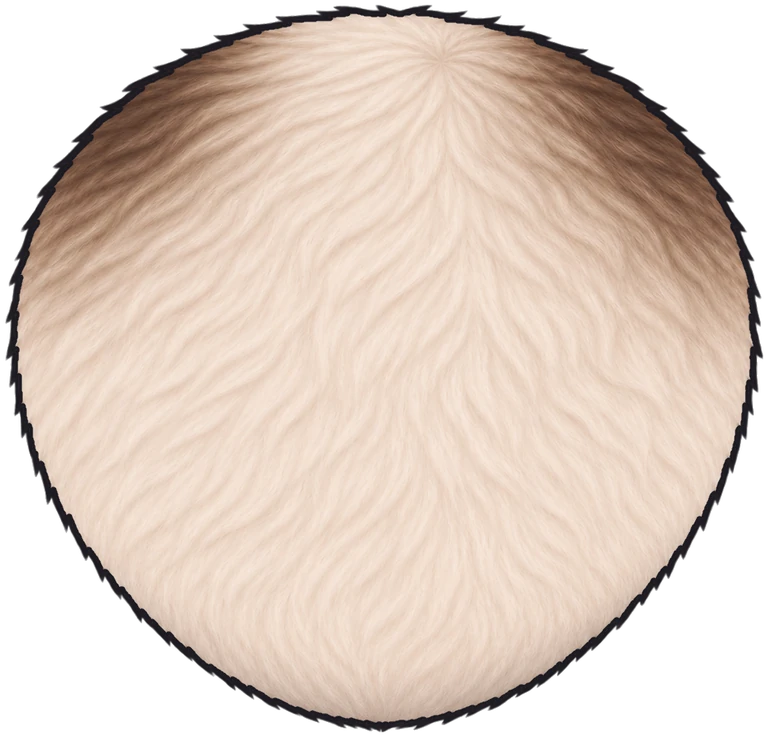
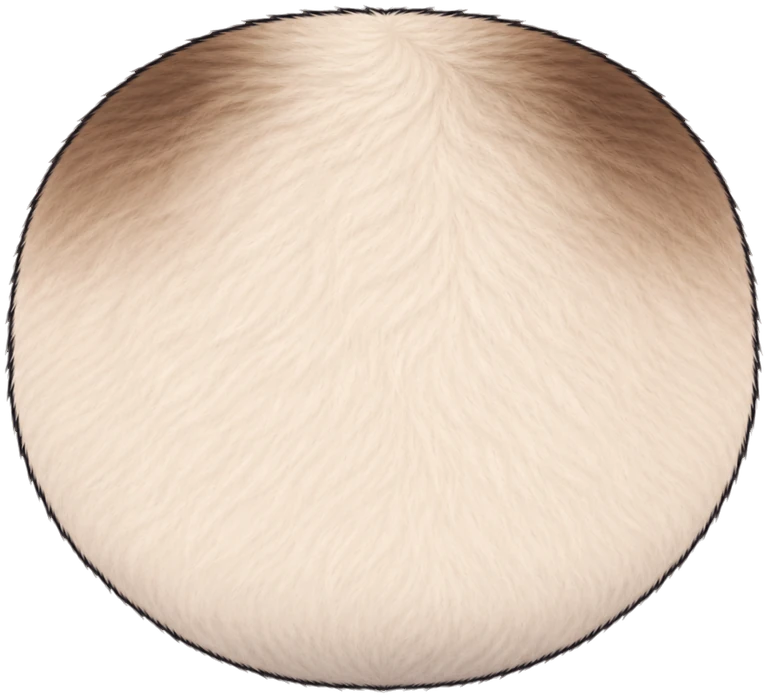
三花、暹罗、英短蓝按真猫照片重画，深色毛上眼皮下沿改用浅色线
- 暹罗：苹果头圆脸，大块深色面罩，眼皮取面罩色。
- 三花：左黑右橘分块，眼皮按所在色块取色。
- 英短蓝：宽圆脸、小圆耳，毛色调成和身体一致的银蓝灰，脸上有毛流（外圈毛边还在改）。
- 眼皮下沿和闭眼弧线同色，黑猫等深色毛犯困、眨眼时看得出在闭眼；头像重新嵌入新样式。

diff --git a/prototype/coats.js b/prototype/coats.js
@@ -116,9 +116,9 @@
     },
     {
       id: 'siamese', name: '暹罗猫', art: art('siamese', {
-        head: { cx: 399.9, cy: 173.4, width: 241.8 }, backHead: { cx: 400, cy: 173.6, width: 243 }, ear: { x: 272, y: 22, width: 110, rotate: 12 },
+        head: { cx: 400.1, cy: 168.9, width: 241.3 }, backHead: { cx: 400.3, cy: 169, width: 240.5 }, ear: { x: 272, y: 22, width: 110, rotate: 12 },
         arm: { width: 46, maskBody: true }, paw: { width: 58 }, tail: { scale: 0.8 },
-        headPath: 'M 282 166 C 280 104, 332 60, 400 60 C 468 60, 520 104, 518 166 C 517 210, 488 248, 454 270 C 436 281, 418 287, 400 287 C 382 287, 364 281, 346 270 C 312 248, 283 210, 282 166 Z',
+        headPath: 'M 518.0 172.0 L 517.8 179.2 L 517.3 185.0 L 516.5 190.4 L 515.4 195.4 L 514.1 200.3 L 512.6 204.9 L 510.8 209.4 L 508.8 213.7 L 506.7 217.9 L 504.3 222.0 L 501.8 225.9 L 499.2 229.7 L 496.3 233.3 L 493.3 236.8 L 490.2 240.2 L 487.0 243.4 L 483.6 246.5 L 480.2 249.4 L 476.6 252.2 L 472.9 254.9 L 469.2 257.4 L 465.4 259.8 L 461.5 262.0 L 457.5 264.0 L 453.4 265.9 L 449.3 267.6 L 445.1 269.2 L 440.8 270.6 L 436.4 271.9 L 432.0 273.0 L 427.4 273.9 L 422.6 274.7 L 417.7 275.2 L 412.5 275.7 L 407.0 275.9 L 400.0 276.0 L 393.0 275.9 L 387.5 275.7 L 382.3 275.2 L 377.4 274.7 L 372.6 273.9 L 368.0 273.0 L 363.6 271.9 L 359.2 270.6 L 354.9 269.2 L 350.7 267.6 L 346.6 265.9 L 342.5 264.0 L 338.5 262.0 L 334.6 259.8 L 330.8 257.4 L 327.1 254.9 L 323.4 252.2 L 319.8 249.4 L 316.4 246.5 L 313.0 243.4 L 309.8 240.2 L 306.7 236.8 L 303.7 233.3 L 300.8 229.7 L 298.2 225.9 L 295.7 222.0 L 293.3 217.9 L 291.2 213.7 L 289.2 209.4 L 287.4 204.9 L 285.9 200.3 L 284.6 195.4 L 283.5 190.4 L 282.7 185.0 L 282.2 179.2 L 282.0 172.0 L 282.1 164.3 L 282.4 158.2 L 282.9 152.6 L 283.5 147.2 L 284.4 142.1 L 285.4 137.2 L 286.7 132.4 L 288.1 127.9 L 289.7 123.4 L 291.5 119.1 L 293.4 115.0 L 295.6 111.0 L 297.9 107.2 L 300.4 103.5 L 303.1 99.9 L 305.9 96.5 L 309.0 93.2 L 312.1 90.1 L 315.5 87.1 L 319.0 84.3 L 322.7 81.7 L 326.5 79.2 L 330.5 76.8 L 334.6 74.7 L 338.9 72.7 L 343.3 70.8 L 347.9 69.2 L 352.6 67.7 L 357.6 66.3 L 362.6 65.2 L 367.9 64.2 L 373.4 63.4 L 379.1 62.8 L 385.2 62.4 L 391.8 62.1 L 400.0 62.0 L 408.2 62.1 L 414.8 62.4 L 420.9 62.8 L 426.6 63.4 L 432.1 64.2 L 437.4 65.2 L 442.4 66.3 L 447.4 67.7 L 452.1 69.2 L 456.7 70.8 L 461.1 72.7 L 465.4 74.7 L 469.5 76.8 L 473.5 79.2 L 477.3 81.7 L 481.0 84.3 L 484.5 87.1 L 487.9 90.1 L 491.0 93.2 L 494.1 96.5 L 496.9 99.9 L 499.6 103.5 L 502.1 107.2 L 504.4 111.0 L 506.6 115.0 L 508.5 119.1 L 510.3 123.4 L 511.9 127.9 L 513.3 132.4 L 514.6 137.2 L 515.6 142.1 L 516.5 147.2 L 517.1 152.6 L 517.6 158.2 L 517.9 164.3 Z',
         imprint: { dx: 36, dy: -14 },
       }),
       defs: `<radialGradient id="coat-siamese-mask">
@@ -127,12 +127,19 @@
         <stop offset="100%" class="coat-stop-base" stop-opacity="0"/>
       </radialGradient>`,
       head: '<ellipse fill="url(#coat-siamese-mask)" cx="400" cy="200" rx="96" ry="84"/>',
-      shape: { bodySX: 0.86, headSX: 1, ear: 1.08 }, // 身材细长、脸窄一点、耳朵大
+      shape: { bodySX: 0.86, headSX: 1, ear: 1 }, // 身材细长、脸窄一点、耳朵大
     },
     { id: 'black', name: '黑猫', art: art('black') },
-    { id: 'calico', name: '三花猫', art: art('calico') },
-    { id: 'blue', name: '英短蓝猫', art: art('blue', { tail: { scale: 1.15 } }),
-      shape: { bodySX: 1.15, bodySY: 0.96, headSX: 1.1, ear: 0.85 } },
+    { id: 'calico', name: '三花猫', art: art('calico', {
+      head: { cx: 400, cy: 173.1, width: 266 }, backHead: { cx: 400.1, cy: 173.3, width: 264.3 },
+    }) },
+    { id: 'blue', name: '英短蓝猫', art: art('blue', {
+      head: { cx: 400.1, cy: 181.3, width: 275.3 }, backHead: { cx: 399.8, cy: 180.9, width: 274.5 },
+      ear: { x: 276.3, y: 62.3, width: 75.5 }, // 小圆耳，分得开、长得低
+      arm: { width: 62, maskBody: true }, paw: { width: 72 }, tail: { scale: 1.25 },
+      headPath: 'M 534.0 182.0 L 534.0 189.2 L 533.9 195.0 L 533.5 200.4 L 533.0 205.4 L 532.2 210.3 L 531.3 214.9 L 530.1 219.4 L 528.7 223.7 L 527.0 227.9 L 525.2 232.0 L 523.1 235.9 L 520.9 239.7 L 518.4 243.3 L 515.7 246.8 L 512.8 250.2 L 509.6 253.4 L 506.3 256.5 L 502.7 259.4 L 499.0 262.2 L 495.0 264.9 L 490.8 267.4 L 486.4 269.8 L 481.9 272.0 L 477.1 274.0 L 472.1 275.9 L 466.9 277.6 L 461.6 279.2 L 456.0 280.6 L 450.2 281.9 L 444.2 283.0 L 438.0 283.9 L 431.5 284.7 L 424.7 285.2 L 417.5 285.7 L 409.7 285.9 L 400.0 286.0 L 390.3 285.9 L 382.5 285.7 L 375.3 285.2 L 368.5 284.7 L 362.0 283.9 L 355.8 283.0 L 349.8 281.9 L 344.0 280.6 L 338.4 279.2 L 333.1 277.6 L 327.9 275.9 L 322.9 274.0 L 318.1 272.0 L 313.6 269.8 L 309.2 267.4 L 305.0 264.9 L 301.0 262.2 L 297.3 259.4 L 293.7 256.5 L 290.4 253.4 L 287.2 250.2 L 284.3 246.8 L 281.6 243.3 L 279.1 239.7 L 276.9 235.9 L 274.8 232.0 L 273.0 227.9 L 271.3 223.7 L 269.9 219.4 L 268.7 214.9 L 267.8 210.3 L 267.0 205.4 L 266.5 200.4 L 266.1 195.0 L 266.0 189.2 L 266.0 182.0 L 266.1 174.6 L 266.4 168.7 L 267.0 163.3 L 267.7 158.1 L 268.7 153.2 L 269.9 148.4 L 271.3 143.9 L 272.9 139.5 L 274.7 135.2 L 276.8 131.1 L 279.0 127.1 L 281.4 123.2 L 284.1 119.5 L 286.9 116.0 L 290.0 112.5 L 293.2 109.2 L 296.6 106.1 L 300.2 103.1 L 304.0 100.2 L 308.0 97.5 L 312.2 95.0 L 316.5 92.6 L 321.0 90.3 L 325.7 88.2 L 330.6 86.3 L 335.6 84.5 L 340.8 82.9 L 346.2 81.5 L 351.8 80.2 L 357.6 79.1 L 363.6 78.1 L 369.8 77.4 L 376.3 76.8 L 383.2 76.3 L 390.7 76.1 L 400.0 76.0 L 409.3 76.1 L 416.8 76.3 L 423.7 76.8 L 430.2 77.4 L 436.4 78.1 L 442.4 79.1 L 448.2 80.2 L 453.8 81.5 L 459.2 82.9 L 464.4 84.5 L 469.4 86.3 L 474.3 88.2 L 479.0 90.3 L 483.5 92.6 L 487.8 95.0 L 492.0 97.5 L 496.0 100.2 L 499.8 103.1 L 503.4 106.1 L 506.8 109.2 L 510.0 112.5 L 513.1 116.0 L 515.9 119.5 L 518.6 123.2 L 521.0 127.1 L 523.2 131.1 L 525.3 135.2 L 527.1 139.5 L 528.7 143.9 L 530.1 148.4 L 531.3 153.2 L 532.3 158.1 L 533.0 163.3 L 533.6 168.7 L 533.9 174.6 Z',
+    }),
+      shape: { bodySX: 1.15, bodySY: 0.96, headSX: 1, ear: 1 } }, // 包子脸、敦实
     { id: 'white', name: '异瞳白猫', art: art('white') },
     { id: 'maine', name: '缅因猫', art: art('maine', {
       head: { cx: 400.4, cy: 178.1, width: 322.3 }, backHead: { cx: 400, cy: 177.9, width: 316.5 }, ear: { x: 278, y: 14, width: 110, rotate: 0 },

diff --git a/prototype/style.css b/prototype/style.css
@@ -82,8 +82,10 @@ html[data-cat="siamese"] {
   --coat-transition: #a8876c;
   --coat-ear: var(--coat-point);
   --coat-inner-ear: #b98080;
-  --coat-lid-l: var(--coat-transition);
-  --coat-lid-r: var(--coat-transition);
+  --coat-lid-l: #5d4333; /* 眼周面罩色，取自 head.png */
+  --coat-lid-r: #5d4333;
+  --coat-eye-arc-l: var(--coat-mouth-line);
+  --coat-eye-arc-r: var(--coat-mouth-line);
   --coat-paw-l: var(--coat-point);
   --coat-paw-r: var(--coat-point);
   --coat-toe-l: var(--coat-mouth-line);
@@ -119,7 +121,8 @@ html[data-cat="black"] {
 }
 html[data-cat="calico"] {
   --coat-base: #fffdf8;
-  --coat-lid-l: #26232b;
+  --coat-lid-l: #26232b; /* 左眼在黑块里、右眼在橘块里，取自 head.png */
+  --coat-lid-r: #e68b40;
   --coat-eye-arc-l: #e8e2ec;
   --coat-iris: #e0a63a;
   --coat-blush-opacity: 0.4;
@@ -251,6 +254,9 @@ html:not([data-cat="siamese"]) #scene [data-coat-pattern="siamese"] { display: n
 #scene .lid-l { fill: var(--coat-lid-l); }
 #scene .lid-r { fill: var(--coat-lid-r); }
 #scene .lid-line { stroke: var(--ink); stroke-width: 4; stroke-linecap: round; }
+/* 眼皮下沿和闭眼弧线同色：深色毛上用浅色线，眼皮往下落时还看得出是在闭眼 */
+#scene #lidline-l { stroke: var(--coat-eye-arc-l); }
+#scene #lidline-r { stroke: var(--coat-eye-arc-r); }
 #scene .eye-ring { fill: none; stroke: var(--ink); stroke-width: 5; }
 #scene .eye-arc-l, #scene .eye-arc-r { fill: none; stroke-width: 5; stroke-linecap: round; }
 #scene .eye-arc-l { stroke: var(--coat-eye-arc-l); }

diff --git a/prototype/art/calico/manifest.js b/prototype/art/calico/manifest.js
@@ -1,1 +1,1 @@
-SillyArt.register("calico", {"head": [768, 649], "ear": [610, 768], "body": [759, 768], "arm-l": [203, 768], "arm-r": [203, 768], "paw-l": [768, 537], "paw-r": [768, 537], "tail": [120, 768], "back-head": [768, 652], "ear-back": [599, 768], "back-body": [753, 768], "ear-r": [609, 768], "ear-back-r": [601, 768]});
+SillyArt.register("calico", {"head": [768, 608], "ear": [610, 768], "body": [759, 768], "arm-l": [203, 768], "arm-r": [203, 768], "paw-l": [768, 537], "paw-r": [768, 537], "tail": [120, 768], "back-head": [768, 615], "ear-back": [599, 768], "back-body": [753, 768], "ear-r": [609, 768], "ear-back-r": [601, 768]});

diff --git a/prototype/art/siamese/manifest.js b/prototype/art/siamese/manifest.js
@@ -1,1 +1,1 @@
-SillyArt.register("siamese", {"head": [768, 739], "ear": [616, 768], "body": [754, 768], "arm-l": [201, 768], "arm-r": [201, 768], "paw-l": [768, 537], "paw-r": [768, 537], "tail": [118, 768], "back-head": [768, 737], "ear-back": [602, 768], "back-body": [753, 768]});
+SillyArt.register("siamese", {"head": [768, 696], "ear": [616, 768], "body": [754, 768], "arm-l": [201, 768], "arm-r": [201, 768], "paw-l": [768, 537], "paw-r": [768, 537], "tail": [118, 768], "back-head": [768, 698], "ear-back": [602, 768], "back-body": [753, 768]});

diff --git a/prototype/art/blue/manifest.js b/prototype/art/blue/manifest.js
@@ -1,1 +1,1 @@
-SillyArt.register("blue", {"head": [768, 650], "ear": [614, 768], "body": [755, 768], "arm-l": [200, 768], "arm-r": [200, 768], "paw-l": [768, 534], "paw-r": [768, 534], "tail": [125, 768], "back-head": [768, 644], "ear-back": [603, 768], "back-body": [752, 768]});
+SillyArt.register("blue", {"head": [768, 605], "ear": [302, 302], "body": [755, 768], "arm-l": [200, 768], "arm-r": [200, 768], "paw-l": [768, 534], "paw-r": [768, 534], "tail": [125, 768], "back-head": [768, 608], "ear-back": [302, 302], "back-body": [752, 768]});

diff --git a/tools/prepare_art.py b/tools/prepare_art.py
@@ -19,10 +19,11 @@ COW = {
 # Scene coordinates: keep head (cx, cy, width), ear (x, y, width, rotate),
 # optional left-ear pivot (x, y), and shape scales in sync with coats.js.
 PORTRAITS = {
-    "cow": {}, "lihua": {}, "black": {}, "calico": {}, "white": {},
+    "cow": {}, "lihua": {}, "black": {}, "white": {},
+    "calico": {"head": (400, 173.1, 266)},
     "orange": {"headSX": 1.08},
-    "blue": {"headSX": 1.1, "ear_scale": .85},
-    "siamese": {"head": (399.9, 173.4, 241.8), "ear": (272, 22, 110, 12), "ear_scale": 1.08},
+    "blue": {"head": (400.1, 181.3, 275.3), "ear": (276.3, 62.3, 75.5, 0)},
+    "siamese": {"head": (400.1, 168.9, 241.3), "ear": (272, 22, 110, 12)},
     "maine": {"head": (400.4, 178.1, 322.3), "ear": (278, 14, 110, 0), "ear_scale": 1.15},
     "sphynx": {"head": (400.1, 169.1, 255.3), "ear": (268, 34, 110, 16), "ear_scale": 1.18},
 }
